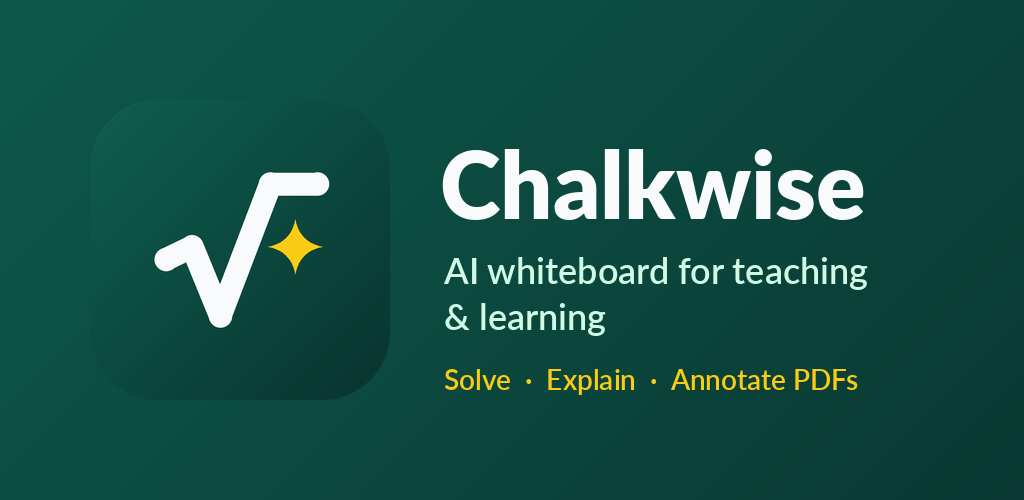
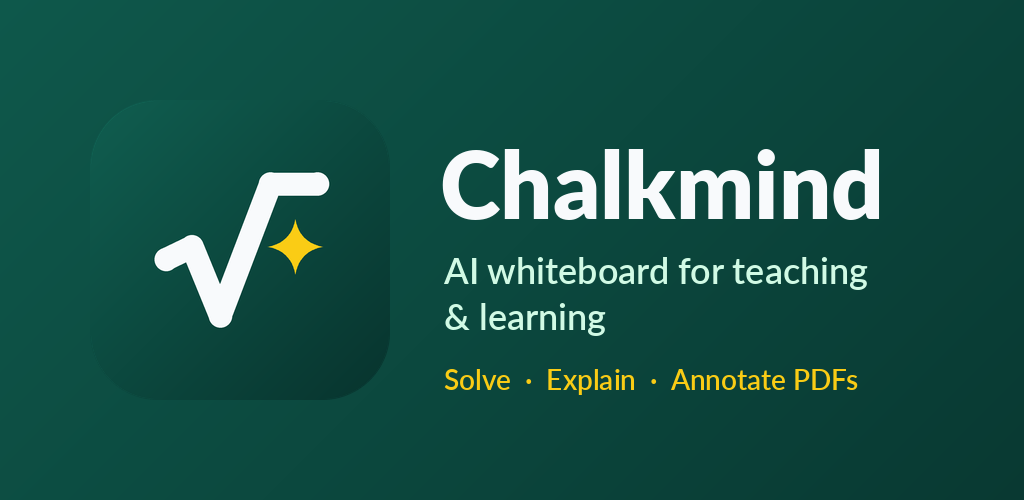
feat: rename app to Chalkmind (chalkmind.tech)
- Name "Chalkmind" across the app, onboarding, tutorial, AI tutor persona,
  splash, Android/Linux/web metadata and project docs.
- Application ID tech.chalkmind.app (reverse of the owned domain
  chalkmind.tech); MainActivity moved to the matching package.
- AI requests identify the app to OpenRouter (HTTP-Referer chalkmind.tech).
- Store listing: title "Chalkmind: AI Whiteboard", website, privacy policy
  and support links; feature graphic regenerated.
- Brand tooling renamed (tool/brand/chalkmind_icon.py); landing-site
  generation removed from the app repo.
- The landing website lives in its own repository (chalkmind-site);
  /site/ is git-ignored here.

Tests: 216 passing; analyzer clean.

Changed region(s): [[0.6562, 0.3, 0.875, 0.45]]

diff --git a/test/onboarding_test.dart b/test/onboarding_test.dart
@@ -24,7 +24,7 @@ void main() {
       setSize(tester, const Size(820, 1180));
       bool done = false;
       await tester.pumpWidget(MaterialApp(home: OnboardingScreen(onDone: () => done = true)));
-      expect(find.text('Welcome to Chalkwise'), findsOneWidget);
+      expect(find.text('Welcome to Chalkmind'), findsOneWidget);
       expect(find.text('1 of 5'), findsOneWidget);
 
       for (final title in ['Write naturally', 'Smart maths & shapes', 'Your AI tutor', 'Bring your PDFs']) {
@@ -65,7 +65,7 @@ void main() {
       await tester.pumpAndSettle();
       await tester.tap(find.text('Back'));
       await tester.pumpAndSettle();
-      expect(find.text('Welcome to Chalkwise'), findsOneWidget);
+      expect(find.text('Welcome to Chalkmind'), findsOneWidget);
       await tester.tap(find.text('Skip'));
       await tester.pumpAndSettle();
       expect(done, isTrue);
@@ -91,8 +91,8 @@ void main() {
 
     testWidgets('first launch shows onboarding, then the home screen', (tester) async {
       setSize(tester, const Size(820, 1180));
-      await tester.pumpWidget(const ProviderScope(child: ChalkwiseApp(showOnboarding: true)));
-      expect(find.text('Welcome to Chalkwise'), findsOneWidget);
+      await tester.pumpWidget(const ProviderScope(child: ChalkmindApp(showOnboarding: true)));
+      expect(find.text('Welcome to Chalkmind'), findsOneWidget);
       await tester.tap(find.text('Skip'));
       // (The home screen shows a loading spinner in tests: no file storage.)
       await tester.pump(const Duration(milliseconds: 400));

diff --git a/lib/features/onboarding/onboarding_screen.dart b/lib/features/onboarding/onboarding_screen.dart
@@ -27,7 +27,7 @@ const _pages = [
     icon: Icons.gesture_rounded,
     color: Color(0xFF0F5A4D),
     useLogo: true,
-    title: 'Welcome to Chalkwise',
+    title: 'Welcome to Chalkmind',
     body:
         'A smart whiteboard for teaching lessons, solving problems and taking notes.',
     points: [
@@ -56,7 +56,7 @@ const _pages = [
     color: Color(0xFF059669),
     title: 'Smart maths & shapes',
     body:
-        'Write an equation ending in "=" and Chalkwise solves it, in your handwriting.',
+        'Write an equation ending in "=" and Chalkmind solves it, in your handwriting.',
     points: [
       (
         Icons.interests_outlined,
@@ -103,7 +103,7 @@ const _pages = [
   ),
 ];
 
-/// First-launch welcome: what Chalkwise does, in five short pages.
+/// First-launch welcome: what Chalkmind does, in five short pages.
 class OnboardingScreen extends StatefulWidget {
   /// Called when the user finishes or skips (after the choice is saved).
   final VoidCallback onDone;
@@ -458,8 +458,8 @@ class _Illustration extends StatelessWidget {
                 ],
               ),
               child: Image.asset(
-                'assets/brand/chalkwise_logo.png',
-                semanticLabel: 'Chalkwise logo',
+                'assets/brand/chalkmind_logo.png',
+                semanticLabel: 'Chalkmind logo',
               ),
             )
           else

diff --git a/test/widget_test.dart b/test/widget_test.dart
@@ -3,15 +3,15 @@ import 'package:flutter_test/flutter_test.dart';
 import 'package:boardflow/app/app.dart';
 
 void main() {
-  testWidgets('Chalkwise app smoke test loads home screen', (WidgetTester tester) async {
+  testWidgets('Chalkmind app smoke test loads home screen', (WidgetTester tester) async {
     await tester.pumpWidget(
       const ProviderScope(
-        child: ChalkwiseApp(),
+        child: ChalkmindApp(),
       ),
     );
 
-    // Verify Home screen header displays Chalkwise brand and actions
-    expect(find.text('Chalkwise'), findsOneWidget);
+    // Verify Home screen header displays Chalkmind brand and actions
+    expect(find.text('Chalkmind'), findsOneWidget);
     expect(find.text('AI Whiteboard'), findsOneWidget);
     expect(find.text('New Board'), findsOneWidget);
   });

diff --git a/lib/features/home/home_screen.dart b/lib/features/home/home_screen.dart
@@ -174,17 +174,17 @@ class _HomeScreenState extends ConsumerState<HomeScreen> {
         title: Row(
           children: [
             Image.asset(
-              'assets/brand/chalkwise_logo.png',
+              'assets/brand/chalkmind_logo.png',
               width: 34,
               height: 34,
-              semanticLabel: 'Chalkwise logo',
+              semanticLabel: 'Chalkmind logo',
             ),
             const SizedBox(width: 12),
             Column(
               crossAxisAlignment: CrossAxisAlignment.start,
               children: [
                 const Text(
-                  'Chalkwise',
+                  'Chalkmind',
                   style: TextStyle(
                     fontWeight: FontWeight.w700,
                     fontSize: 17,

diff --git a/lib/app/app.dart b/lib/app/app.dart
@@ -3,16 +3,16 @@ import '../features/home/home_screen.dart';
 import '../features/onboarding/onboarding_screen.dart';
 import 'theme/theme.dart';
 
-class ChalkwiseApp extends StatelessWidget {
+class ChalkmindApp extends StatelessWidget {
   /// Show the welcome onboarding first (first launch only).
   final bool showOnboarding;
 
-  const ChalkwiseApp({super.key, this.showOnboarding = false});
+  const ChalkmindApp({super.key, this.showOnboarding = false});
 
   @override
   Widget build(BuildContext context) {
     return MaterialApp(
-      title: 'Chalkwise',
+      title: 'Chalkmind',
       debugShowCheckedModeBanner: false,
       theme: BoardTheme.lightTheme(),
       darkTheme: BoardTheme.darkTheme(),

diff --git a/lib/features/whiteboard/assistant/board_assistant.dart b/lib/features/whiteboard/assistant/board_assistant.dart
@@ -97,7 +97,7 @@ class AssistantTurn {
 /// Board-aware AI assistant for teachers and students.
 class BoardAssistant {
   static const String systemPrompt =
-      'You are Chalkwise Tutor, an AI teaching assistant inside a digital classroom whiteboard used by teachers and students. '
+      'You are Chalkmind Tutor, an AI teaching assistant inside a digital classroom whiteboard used by teachers and students. '
       'Be accurate, clear and encouraging. Match the level of the material on the board. '
       'Output is shown as plain text on a whiteboard: do NOT use Markdown (no #, **, tables) or LaTeX. '
       'Write math with Unicode (x², √, π, ≤, ×, ÷, ½) and number steps as "1.", "2.". '

diff --git a/web/index.html b/web/index.html
@@ -23,13 +23,13 @@
   <!-- iOS meta tags & icons -->
   <meta name="mobile-web-app-capable" content="yes">
   <meta name="apple-mobile-web-app-status-bar-style" content="black">
-  <meta name="apple-mobile-web-app-title" content="Chalkwise">
+  <meta name="apple-mobile-web-app-title" content="Chalkmind">
   <link rel="apple-touch-icon" href="icons/Icon-192.png">
 
   <!-- Favicon -->
   <link rel="icon" type="image/png" href="favicon.png"/>
 
-  <title>Chalkwise: AI Whiteboard</title>
+  <title>Chalkmind: AI Whiteboard</title>
   <link rel="manifest" href="manifest.json">
 </head>
 <body>

diff --git a/lib/core/ai/openrouter_client.dart b/lib/core/ai/openrouter_client.dart
@@ -96,7 +96,9 @@ class OpenRouterClient {
   Map<String, String> _headers() => {
     'Authorization': 'Bearer ${config.apiKey}',
     'Content-Type': 'application/json',
-    'X-Title': 'Chalkwise',
+    // App attribution for OpenRouter (identifies Chalkmind's requests).
+    'HTTP-Referer': 'https://chalkmind.tech',
+    'X-Title': 'Chalkmind',
   };
 
   static bool _isRetryableStatus(int code) =>

diff --git a/lib/features/whiteboard/ui/whiteboard_screen.dart b/lib/features/whiteboard/ui/whiteboard_screen.dart
@@ -135,7 +135,7 @@ class _WhiteboardScreenState extends ConsumerState<WhiteboardScreen> {
         icon: Icons.functions_rounded,
         title: 'Try it now',
         body:
-            'Write 2 + 3 = with the pen. Chalkwise will offer the answer in your handwriting.',
+            'Write 2 + 3 = with the pen. Chalkmind will offer the answer in your handwriting.',
       ),
     ];
   }

diff --git a/lib/main.dart b/lib/main.dart
@@ -18,5 +18,5 @@ void main() async {
     DeviceOrientation.landscapeRight,
   ]);
 
-  runApp(ProviderScope(child: ChalkwiseApp(showOnboarding: showOnboarding)));
+  runApp(ProviderScope(child: ChalkmindApp(showOnboarding: showOnboarding)));
 }

diff --git a/android/app/src/main/kotlin/tech/chalkmind/app/MainActivity.kt b/android/app/src/main/kotlin/tech/chalkmind/app/MainActivity.kt
@@ -1,4 +1,4 @@
-package com.chalkwise.app
+package tech.chalkmind.app
 
 import io.flutter.embedding.android.FlutterActivity
 

diff --git a/tool/brand/generate.py b/tool/brand/generate.py
@@ -1,4 +1,4 @@
-"""Generates every Chalkwise icon/brand asset from chalkwise_icon.py.
+"""Generates every Chalkmind icon/brand asset from chalkmind_icon.py.
 
 Run from the project root:  python3 tool/brand/generate.py
 """
@@ -7,7 +7,7 @@ import sys
 
 sys.path.insert(0, os.path.dirname(__file__))
 from PIL import Image, ImageDraw, ImageFont  # noqa: E402
-from chalkwise_icon import (  # noqa: E402
+from chalkmind_icon import (  # noqa: E402
     BOARD_BOTTOM, BOARD_TOP, CHALK, SPARK, render_glyph_only, render_tile, _gradient,
 )
 
@@ -42,7 +42,7 @@ for d, k in DENSITIES.items():
 
 with open(out('android', 'app', 'src', 'main', 'res', 'drawable', 'ic_launcher_background.xml'), 'w') as f:
     f.write(f'''<?xml version="1.0" encoding="utf-8"?>
-<!-- Chalkwise adaptive icon background: chalkboard-green gradient. -->
+<!-- Chalkmind adaptive icon background: chalkboard-green gradient. -->
 <shape xmlns:android="http://schemas.android.com/apk/res/android" android:shape="rectangle">
     <gradient
         android:angle="315"
@@ -73,7 +73,7 @@ d = ImageDraw.Draw(fg)
 title = ImageFont.truetype(FONT, 92)
 sub = ImageFont.truetype(FONT_REG, 36)
 small = ImageFont.truetype(FONT_REG, 28)
-d.text((440, 128), 'Chalkwise', font=title, fill=CHALK)
+d.text((440, 128), 'Chalkmind', font=title, fill=CHALK)
 d.text((444, 248), 'AI whiteboard for teaching', font=sub, fill=(209, 250, 229))
 d.text((444, 294), '& learning', font=sub, fill=(209, 250, 229))
 d.text((444, 362), 'Solve  ·  Explain  ·  Annotate PDFs', font=small, fill=SPARK)
@@ -87,6 +87,6 @@ render_tile(512, rounded=False, glyph_scale=0.72).save(out('web', 'icons', 'Icon
 render_tile(64).save(out('web', 'favicon.png'))
 
 # 6. In-app logo
-render_tile(512).save(out('assets', 'brand', 'chalkwise_logo.png'))
+render_tile(512).save(out('assets', 'brand', 'chalkmind_logo.png'))
 
-print('Chalkwise brand assets generated.')
+print('Chalkmind brand assets generated.')
